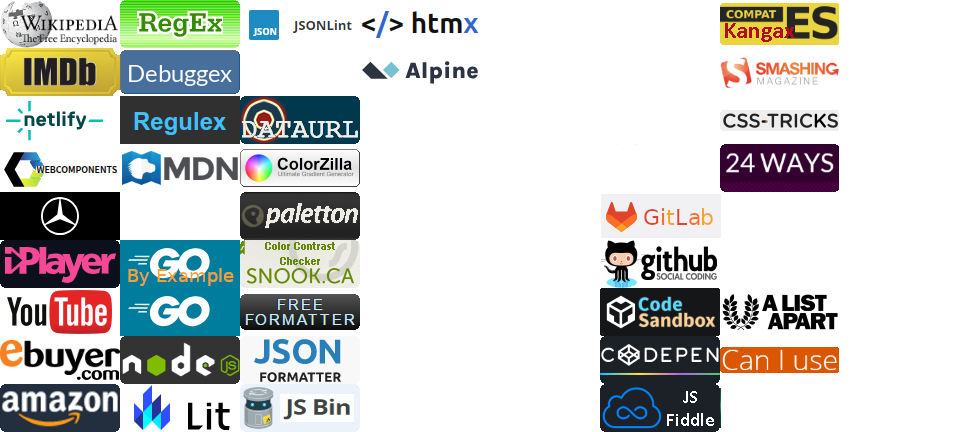
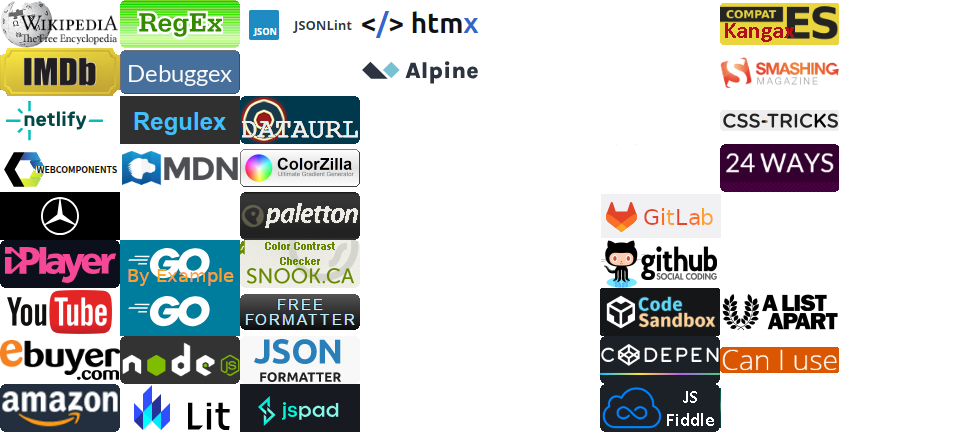
Replaced JSBin for JSPad

Changed region(s): [[0.25, 0.8727, 0.375, 1.0]]

diff --git a/index.html b/index.html
@@ -128,7 +128,7 @@
             style="background-position: 360px 48px"
           ></a>
           <a
-            href="https://jsbin.com/"
+            href="https://www.jspad.dev/"
             style="background-position: 720px 48px"
           ></a>
           <br />
